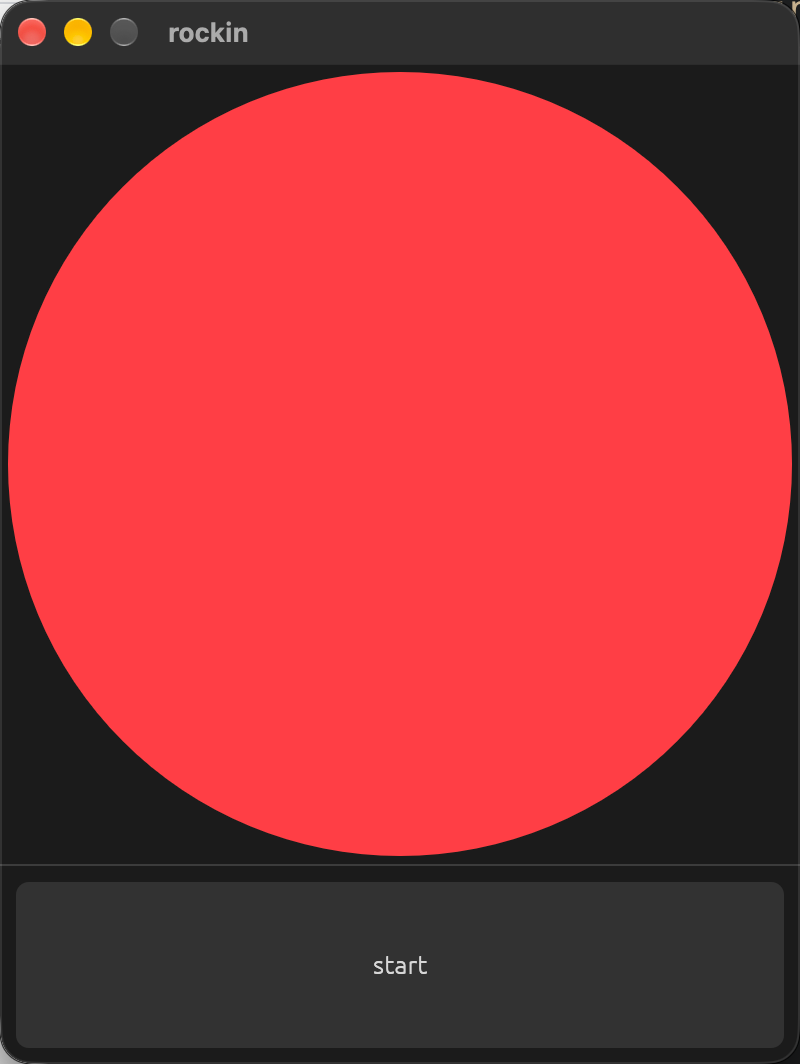
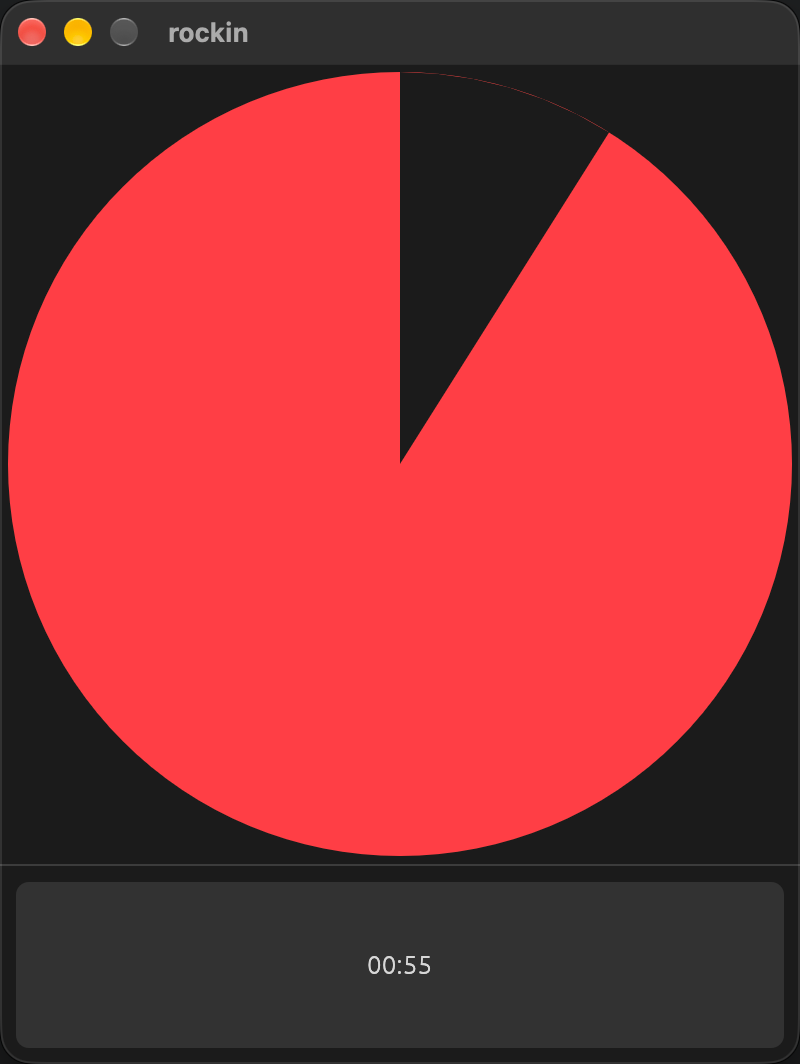
add count down effect on the circle

diff --git a/src/main.rs b/src/main.rs
@@ -1,10 +1,12 @@
 use eframe::egui::{self, Color32};
-use std::time::Duration;
-use std::time::Instant;
+use eframe::egui::{Pos2, Stroke};
+use eframe::epaint::PathStroke;
+use std::f32::consts::{PI, TAU};
+use std::time::{Duration, Instant};
 
 const RADIUS: f32 = 200.0;
 const MARGIN: i8 = 4;
-const INIT_SECONDS: u64 = 60;
+const INIT_SECONDS: u64 = 3600;
 
 fn main() -> eframe::Result {
     eframe::run_native(
@@ -24,12 +26,16 @@ fn main() -> eframe::Result {
 
 #[derive(Debug)]
 struct App {
+    start: Option<Instant>,
     end: Option<Instant>,
 }
 
 impl App {
     fn new() -> Self {
-        Self { end: None }
+        Self {
+            start: None,
+            end: None,
+        }
     }
     fn display_text(&self) -> String {
         if let Some(end) = self.end {
@@ -52,27 +58,46 @@ impl App {
 
 impl eframe::App for App {
     fn ui(&mut self, ui: &mut egui::Ui, _frame: &mut eframe::Frame) {
+        let now = Instant::now();
+        if matches!(self.end, Some(end) if now >= end) {
+            self.end = None;
+            self.start = None;
+        }
         egui::Panel::top("top-panel")
             .frame(egui::Frame::side_top_panel(ui.style()).inner_margin(MARGIN))
             .min_size((RADIUS - MARGIN as f32) * 2.0)
             .show(ui, |ui| {
                 let width = ui.available_width();
-                let (rect, mut _response) =
-                    ui.allocate_exact_size(egui::vec2(width, width), egui::Sense::hover());
-                ui.painter().circle_filled(
+                let radius = width / 2.0;
+                let (rect, _) =
+                    ui.allocate_exact_size(egui::Vec2::splat(width), egui::Sense::hover());
+                ui.painter()
+                    .circle_filled(rect.center(), radius, Color32::from_rgb(214, 96, 77));
+                let mut ratio = 0.0;
+                if let Some(end) = self.end {
+                    if now < end {
+                        let start = self.start.unwrap();
+                        ratio = now.duration_since(start).as_millis() as f32
+                            / end.duration_since(start).as_millis() as f32;
+                    }
+                }
+                ui.painter().add(draw_sector(
+                    ratio,
+                    ui.visuals().panel_fill,
+                    Stroke::new(0.0, Color32::default()),
                     rect.center(),
-                    width / 2.0,
-                    Color32::from_rgb(214, 96, 77),
-                );
+                    radius,
+                ));
             });
         egui::panel::CentralPanel::default().show(ui, |ui| {
             let size = ui.available_size();
             match self.end {
-                Some(end) if Instant::now() < end => {
+                Some(end) if now < end => {
                     if ui
                         .add_sized(size, egui::Button::new(self.display_text()))
                         .clicked()
                     {
+                        self.start = None;
                         self.end = None;
                     }
                     ui.ctx().request_repaint_after(Duration::from_millis(100));
@@ -82,10 +107,37 @@ impl eframe::App for App {
                         .add_sized(size, egui::Button::new(self.display_text()))
                         .clicked()
                     {
-                        self.end = Some(Instant::now() + Duration::from_secs(INIT_SECONDS))
+                        self.start = Some(now);
+                        self.end = Some(now + Duration::from_secs(INIT_SECONDS))
                     }
                 }
             }
         });
     }
+}
+
+fn draw_sector(
+    ratio: f32,
+    fill: impl Into<Color32>,
+    stroke: impl Into<PathStroke>,
+    center: Pos2,
+    radius: f32,
+) -> egui::Shape {
+    fn sector_points(center: Pos2, radius: f32, start_radiant: f32, end_radiant: f32) -> Vec<Pos2> {
+        let segments = (((end_radiant - start_radiant).abs() / TAU) * 64.0)
+            .ceil()
+            .max(2.0) as usize;
+        let mut points = Vec::with_capacity(segments + 2); // for center point and start point
+        points.push(center);
+        for i in 0..=segments {
+            let t = start_radiant + (((end_radiant - start_radiant) * i as f32) / segments as f32);
+            let x = center.x + radius * t.cos();
+            let y = center.y + radius * t.sin();
+            points.push(Pos2::new(x, y));
+        }
+        points
+    }
+    const START: f32 = PI * -0.5;
+    let end = START + (2.0 * PI) * ratio;
+    egui::Shape::convex_polygon(sector_points(center, radius, START, end), fill, stroke)
 }
